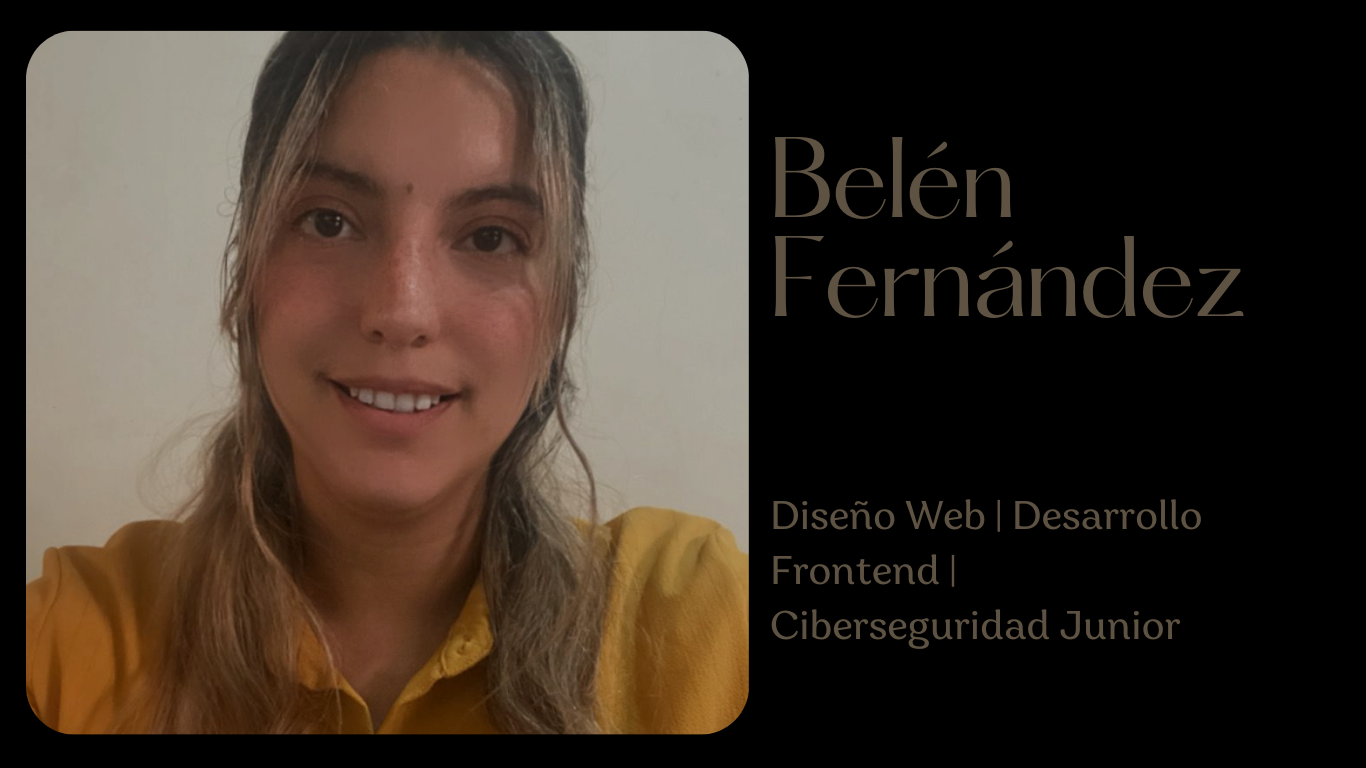
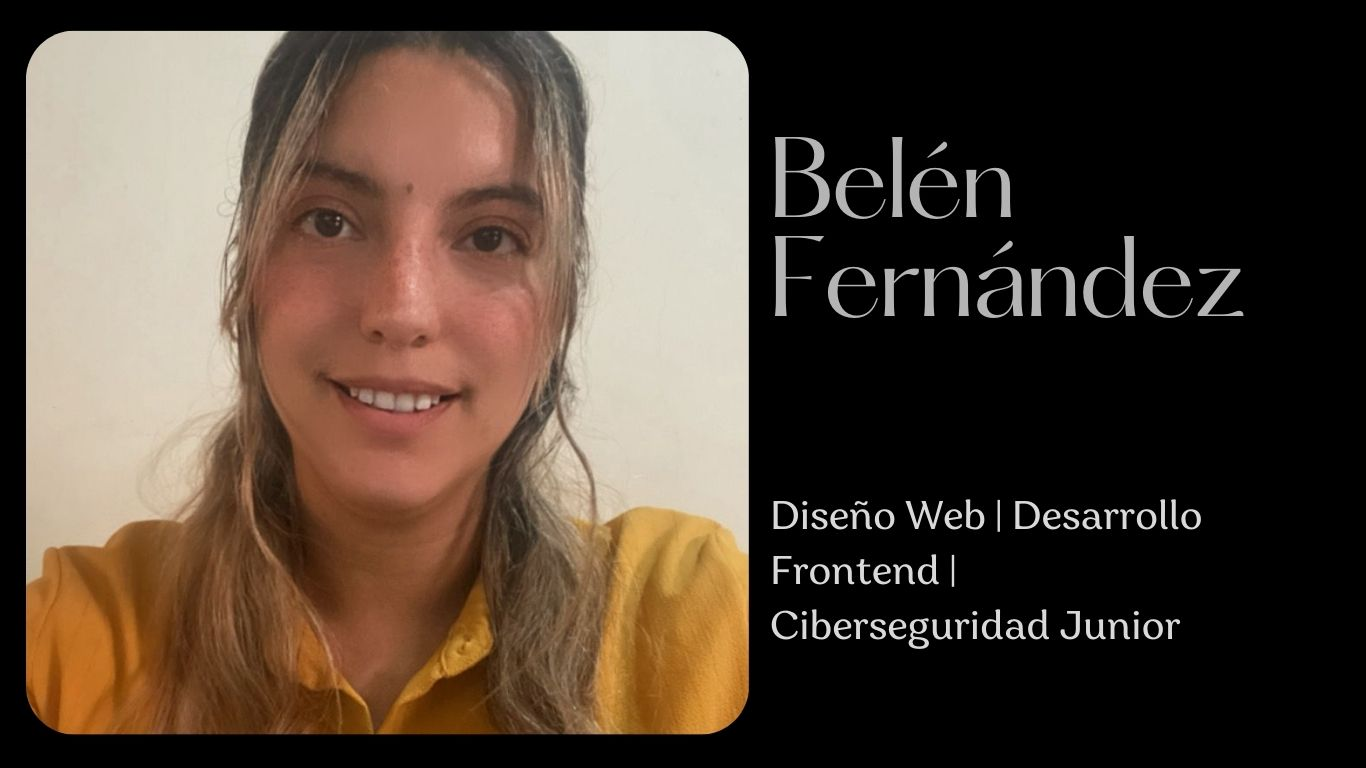
cambios perfil

diff --git a/css/styles.css b/css/styles.css
@@ -149,7 +149,7 @@ body {
 /* 3 cards visibles */
 .project {
   flex: 0 0 calc(33.333% - 20px);
-  background: #fff;
+  background: #a3a0a0;
   color: #000;
   padding: 25px;
   border-radius: 22px;
@@ -250,5 +250,45 @@ body {
   .prev,
   .next {
     display: none;
+  }
+}
+
+/* PERFIL CON FOTO */
+
+.perfil {
+  display: flex;
+  align-items: center;
+  justify-content: center;
+  gap: 60px;
+  max-width: 1000px;
+  margin: auto;
+}
+
+.perfil-texto {
+  max-width: 500px;
+}
+
+/* FOTO TIPO PUERTA */
+
+.perfil-foto {
+  width: 180px;
+  height: 260px;
+  overflow: hidden;
+  border-radius: 120px 120px 20px 20px;
+  box-shadow: 0 15px 30px rgba(0,0,0,0.25);
+}
+
+.perfil-foto img {
+  width: 100%;
+  height: 100%;
+  object-fit: cover;
+}
+
+/* RESPONSIVE */
+
+@media (max-width: 768px) {
+  .perfil {
+    flex-direction: column;
+    gap: 40px;
   }
 }

diff --git a/index.html b/index.html
@@ -33,13 +33,20 @@
 </section>
 
 <!-- PERFIL -->
-<section id="perfil" class="section light">
-  <h2>Perfil Profesional</h2>
+<section id="perfil" class="section light perfil">
+   <div class="perfil-texto">
+    <h2>Perfil Profesional</h2>
   <p>
     Soy Belén Fernández, desarrolladora web con formación en informática y enfoque en buenas prácticas de desarrollo y ciberseguridad.
 Desarrollo aplicaciones y sitios web funcionales, mantenibles y responsivos, cuidando tanto la experiencia de usuario como la seguridad básica de la información.
 Me interesa seguir creciendo en el área IT, participar en proyectos reales y aportar soluciones claras, ordenadas y confiables.
   </p>
+</div>
+
+  <div class="perfil-foto">
+    <img src="assets/perfil.jpg" alt="Belén Fernández">
+  </div>
+
 </section>
 
 <!-- HABILIDADES -->
